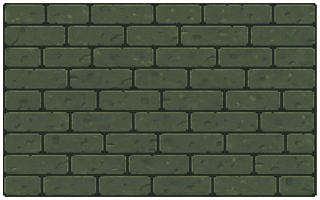
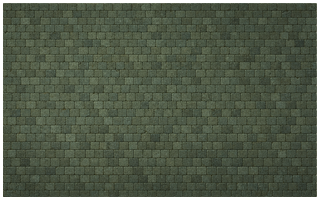
Fix the lab's wall (never actually measured) and its floor's tile scale
Rethought the lab from scratch rather than trusting the earlier pass:

- The wall band was declared at y=122 — like the bedroom's original
  102, a value that had never actually been measured, just inherited.
  room.py wallseam --method gradient couldn't commit here (the wall and
  floor are both similar grey-green stone, too low-contrast for a
  colour-jump method); --method canny at the door jamb's own base,
  picked well clear of the archway's curve, found a strong, consistent
  edge at y=89. That also means the cabinet's earlier "grounded 15px
  short of the wall" fix was chasing the wrong number — checked against
  the real line, its original scene reading (y=92) was already correct,
  reverted rather than kept "fixed" wrong.

- The floor plate's flagstones were roughly 3x the scene's own scale —
  invisible in a side-by-side (both "look like a flagstone floor" at a
  glance) and untouched by room.py plate's fit/tone-match, which
  resizes and recolours without touching what's drawn. Built
  tile_scale.py (room.py tilescale): counts tiles across a clean row by
  the same row-gradient idea as wall_seam.py, and with --against-plate
  compares the scene's own count to the shipped plate's. Scene: 22
  stones. First regeneration (asked for "many small flagstones"): 11 —
  still 2x off. Second (asked for the counted number specifically): 16,
  close enough to read as consistent.

Both are now real, reusable tools wired into the same pipeline as
[…]

diff --git a/games/the-game/sw.js b/games/the-game/sw.js
@@ -1,6 +1,6 @@
 importScripts("../../shared/sw-core.js");
 
-GCRegisterServiceWorker("the-game-v69", [
+GCRegisterServiceWorker("the-game-v70", [
   "./",
   "./index.html",
   "./style.css",

diff --git a/docs/ROOM_ART_STANDARD.rules.md b/docs/ROOM_ART_STANDARD.rules.md
@@ -25,6 +25,7 @@
 ### Measure the wall before you measure anything that stands against it
 - **This is the first measurement in the room, before any prop's.** Everything that stands flush against the back wall — a mirror, a nightstand, a shelf, a cabinet — has to share the wall's own floor line (the Y where the wall panels' art meets the floor), or it reads as floating with a strip of bare wall showing under it. Get the wall's line wrong, or skip measuring it and just inherit whatever `y` an earlier pass happened to use, and every prop placed against it inherits the error — each one individually "measured correctly off the scene" can still be wrong TOGETHER, the same way the wall's own tiled copies have to agree with EACH OTHER (§ "Wall bands are tiled…") and not just with the frame edges.
 - **So the wall's own line needs a real measurement too, not just something grounded to.** `room.py wallseam <game> <room> --strip x0,x1 [--strip x0,x1 ...] [--method gradient|canny]` (`wall_seam.py`) finds it properly, and has two methods for two different kinds of wall — the same "pick the tool that fits the material" reasoning as `measure_blob.py`'s grabcut/canny choice. `--method gradient` (default): a wall-to-floor seam is a horizontal edge, so it shows up as a row-to-row jump in average brightness across a vertical strip with nothing but bare wall/floor in it — works when the wall and floor are different COLOURS (the bedroom's blue wallpaper over dark parquet). `--method canny`: some rooms have a wall and floor close to the same colour (the lab: both grey-green stone), so there's no colour jump to find — gradient returns a low, inconsistent signal there. Canny edge detection finds LOCAL edges instead — the wall's block coursing and the floor's flagstone joints are still visually distinct patterns at the same overall brightness, so the row where edge density changes still marks the seam. Either method: give it at least two clean strips from different parts of the frame — if their answers disagree by more than a few px, at least one is crossing something that isn't bare wall/floor (furniture, a shadow, a rug edge, the curve of an archway) and needs re-picking; the tool says so rather than averaging two different measurements into a third wrong number.
+- **A floor's tile SCALE is a countable fact too, not something to eyeball — and a re-fit doesn't fix a wrong scale on its own.** The lab's floor plate was drawn with flagstones roughly 3x the size of the scene's own, invisible in a side-by-side (both floors "look like flagstone floors" at a glance, just at different densities) and unaffected by `room.py plate`'s fit/tone- match step, which resizes and recolours the WHOLE image without touching what's drawn on it. `room.py tilescale <game> <room> --row y0,y1 [--against-plate]` (`tile_scale.py`) counts tiles the way `wall_seam.py` counts a seam: a clean row of floor has a joint (mortar line, plank seam) between every tile, which is a real, countable column-to-column brightness spike, not a matter of opinion. Count the scene's own row once, and that count is the exact target for a regeneration prompt — "roughly 21 stones span the full width", not "small flagstones", which is what actually closed the gap: a first regeneration asked for "small" and still came back at roughly half the scene's density (11 vs 21), a second asked for the counted number specifically and landed close (16 vs 22, visually consistent). Not every floor has discrete joints to count — grass, dirt, a seamless texture gives this tool nothing to measure, same limitation as `wall_seam.py` on a low-contrast wall.
 ### Use the numbers from pass 1
 - **First choice, every time: the position and size the composed scene used.** Measure them, then use them. They are a composition that already proved it works. Only invent a position when the floor plate came back with the path or the doorway somewhere the scene didn't have it — and then move the prop the smallest distance that clears it.
 ### Sizing, and when NOT to use a depth ramp

diff --git a/docs/ROOM_ART_STANDARD.md b/docs/ROOM_ART_STANDARD.md
@@ -214,6 +214,26 @@ verify`:
   is automatic now, on every room, every push, instead of depending on
   someone noticing a strip of wall in a screenshot.
 
+**A floor's tile SCALE is a countable fact too, not something to eyeball —
+and a re-fit doesn't fix a wrong scale on its own.** The lab's floor plate
+was drawn with flagstones roughly 3x the size of the scene's own, invisible
+in a side-by-side (both floors "look like flagstone floors" at a glance,
+just at different densities) and unaffected by `room.py plate`'s fit/tone-
+match step, which resizes and recolours the WHOLE image without touching
+what's drawn on it. `room.py tilescale <game> <room> --row y0,y1
+[--against-plate]` (`tile_scale.py`) counts tiles the way `wall_seam.py`
+counts a seam: a clean row of floor has a joint (mortar line, plank seam)
+between every tile, which is a real, countable column-to-column brightness
+spike, not a matter of opinion. Count the scene's own row once, and that
+count is the exact target for a regeneration prompt — "roughly 21 stones
+span the full width", not "small flagstones", which is what actually closed
+the gap: a first regeneration asked for "small" and still came back at
+roughly half the scene's density (11 vs 21), a second asked for the counted
+number specifically and landed close (16 vs 22, visually consistent). Not
+every floor has discrete joints to count — grass, dirt, a seamless texture
+gives this tool nothing to measure, same limitation as `wall_seam.py` on a
+low-contrast wall.
+
 ### Use the numbers from pass 1
 
 **First choice, every time: the position and size the composed scene used.**
